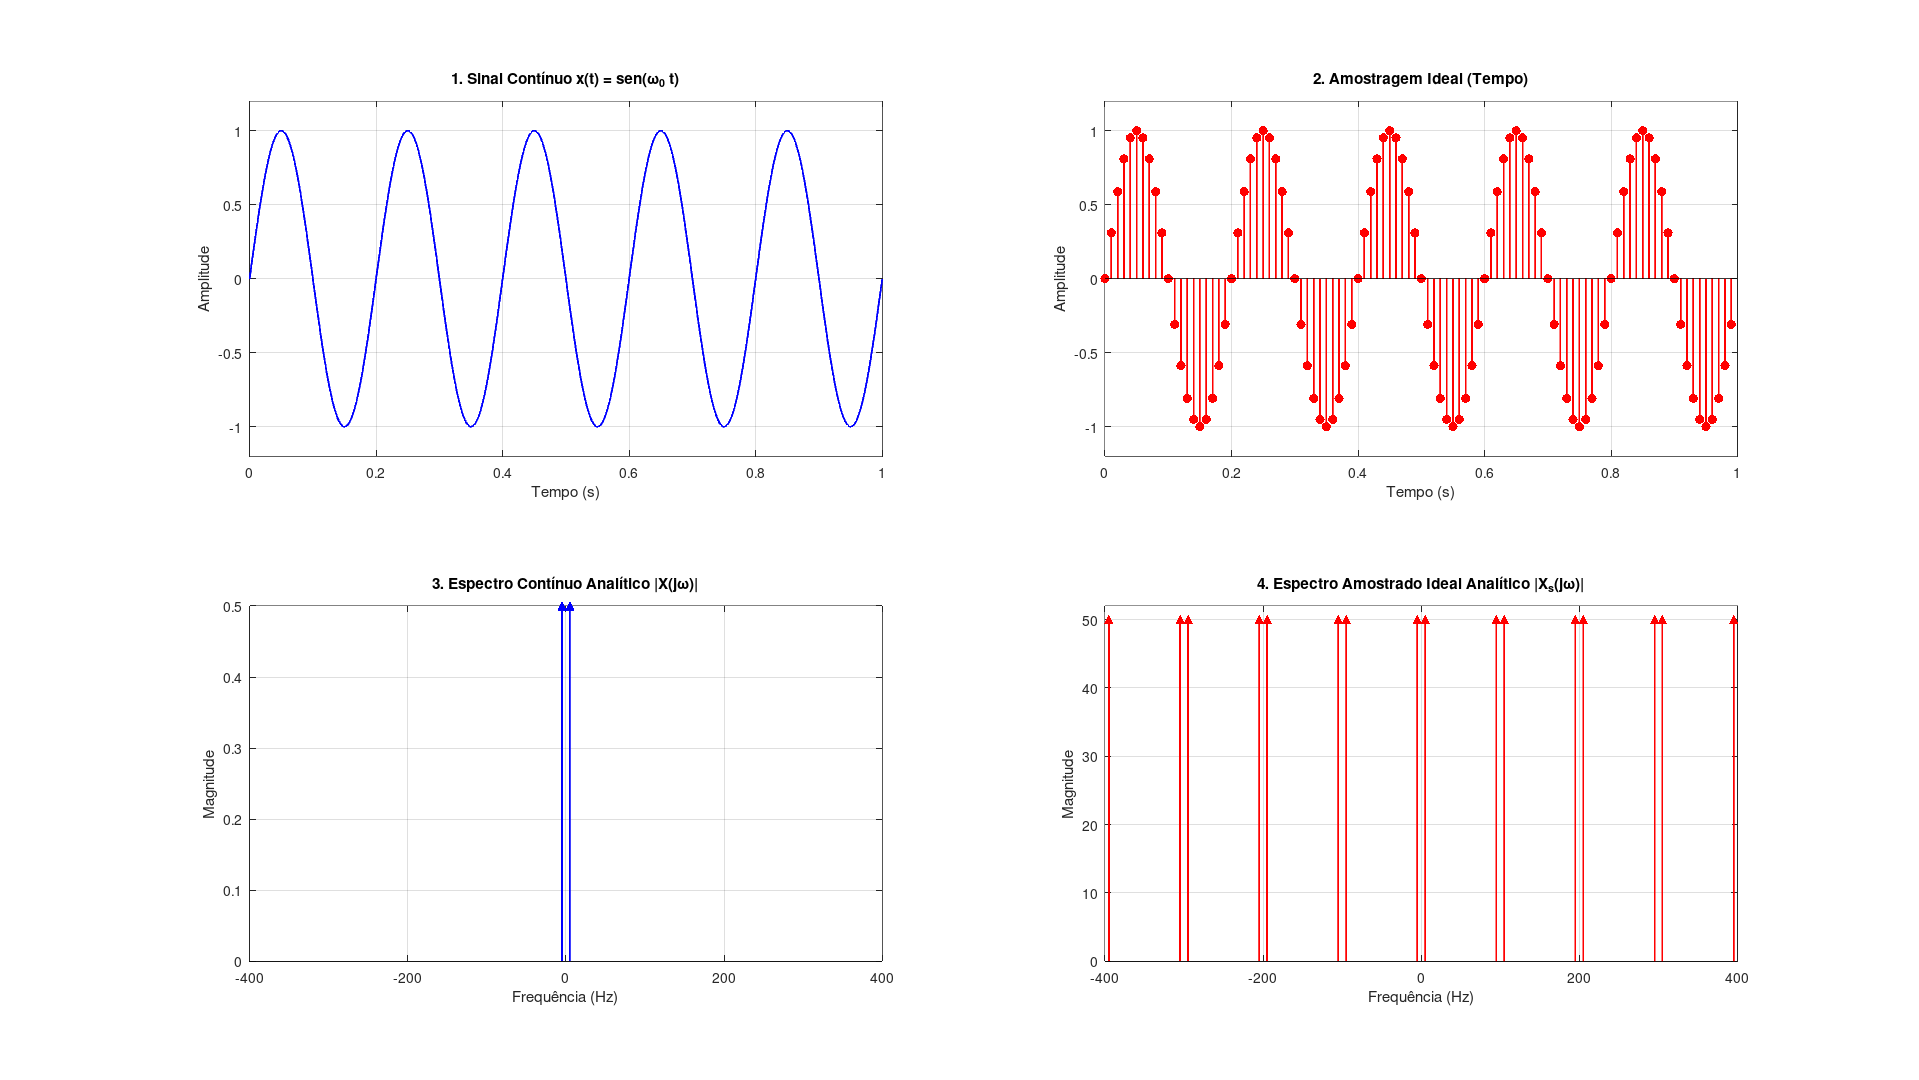
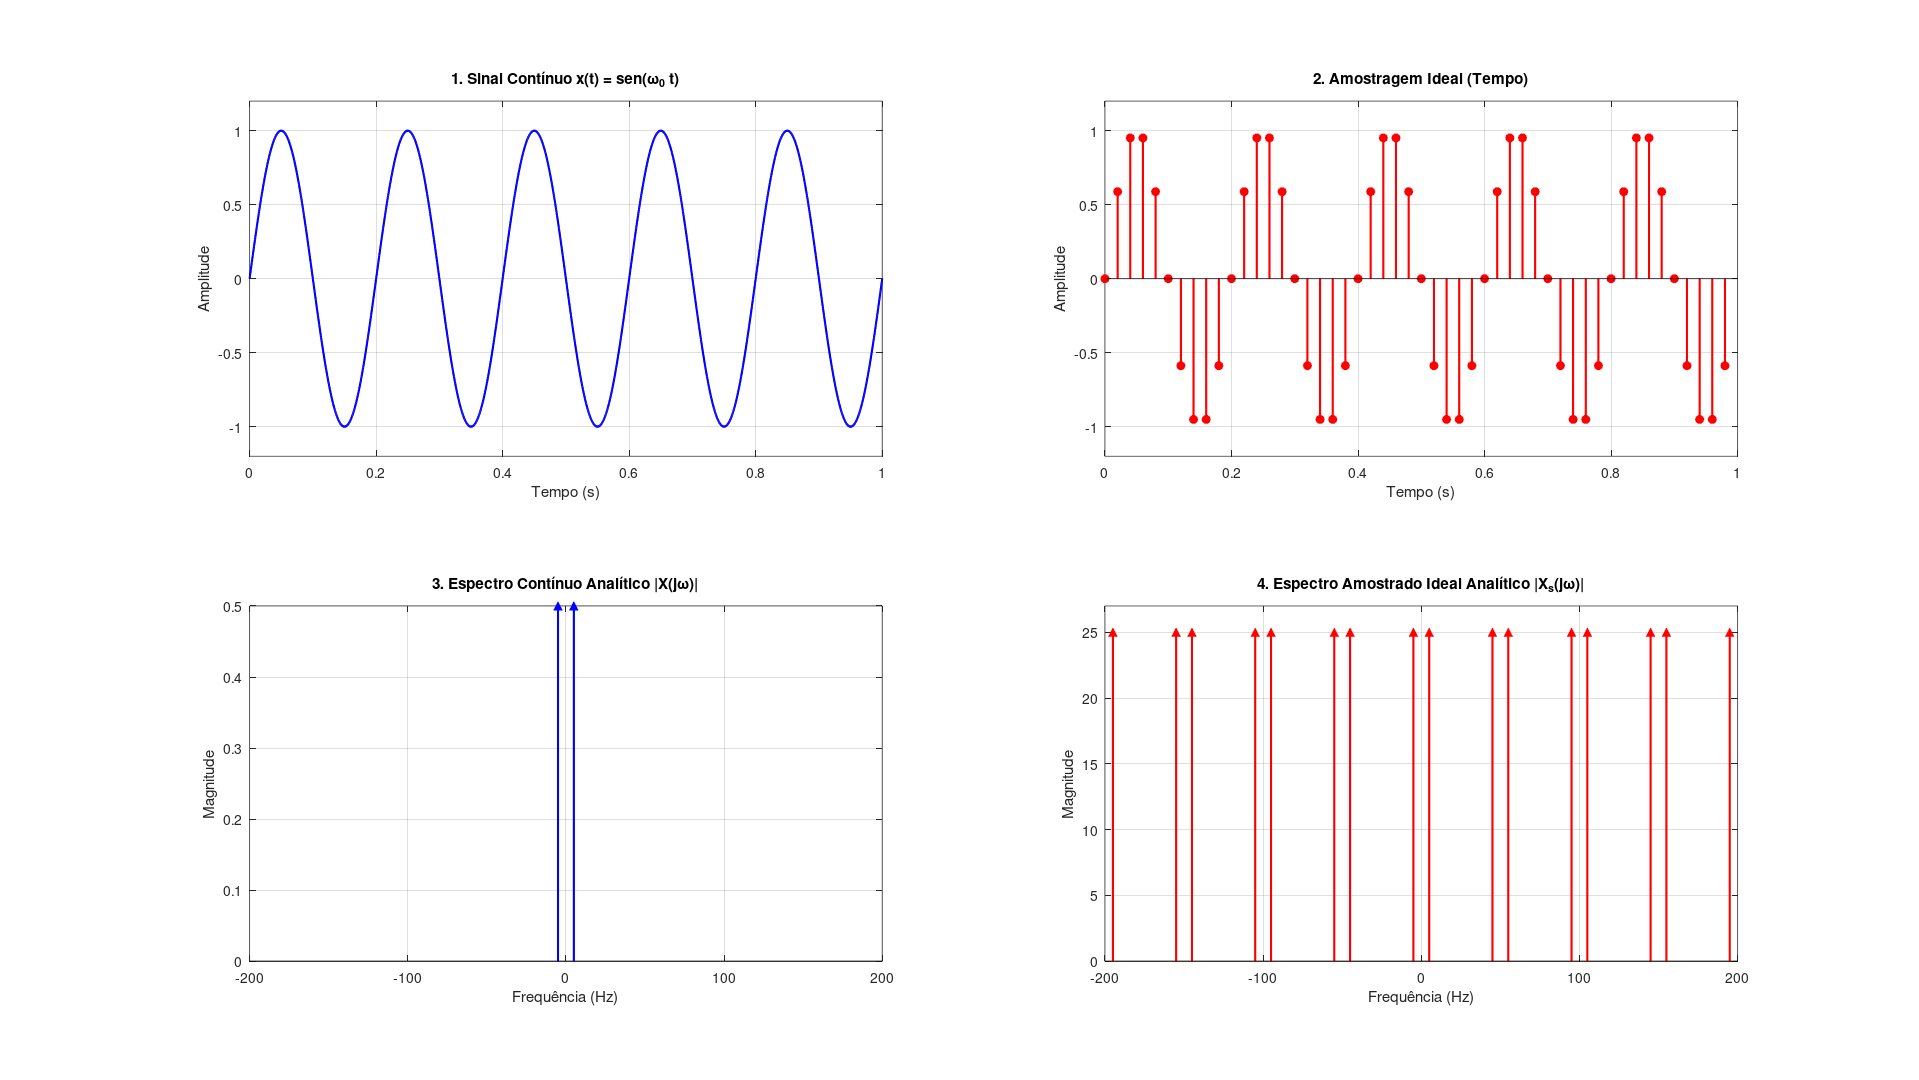
refactor: modularização dos scripts das transformadas

diff --git a/main.m b/main.m
@@ -2,17 +2,16 @@
 % MAIN.M - Análise Analítica de Amostragem (Ideal, Natural e Topo-Plano)
 % =========================================================================
 
-% TODO: Adicionar análise por FFT
-
 clear; clc; close all;
 
 % Adiciona o diretório 'src' e o 'utils' ao path de busca do MATLAB/Octave
-addpath('src', 'utils');
+addpath(genpath('src'));
+addpath('utils');
 
 %% 1. Definição dos Parâmetros Globais
 frequency = 5;                         % Frequência do sinal original (Hz)
 omega = 2*pi*frequency;                % Frequência angular (rad/s)
-samplingFrequency = 100;                % Frequência de amostragem (Hz)
+samplingFrequency = 50;                % Frequência de amostragem (Hz)
 samplingPeriod = 1/samplingFrequency;  % Período de amostragem (s)
 tau = 0.20 * samplingPeriod;            % Largura do pulso (50% do período); Considerar usar percentual menor.
 displayRange = 4 * samplingFrequency;
@@ -57,28 +56,17 @@ grid on; ylim([-1.2 1.2]);
 
 % PLOT 3: Frequência - Analítico (Contínuo)
 subplot(2, 2, 3);
-frequencyContinuous = [-frequency, frequency];
-magnitudeContinuous = [0.5, 0.5];
-stem(frequencyContinuous, magnitudeContinuous, 'b', 'Marker', '^', 'LineWidth', 1.5, 'MarkerFaceColor', 'b');
+continuousFrequencies = [-frequency, frequency];
+continuousAmplitudes = [0.5, 0.5];
+stem(continuousFrequencies, continuousAmplitudes, 'b', 'Marker', '^', 'LineWidth', 1.5, 'MarkerFaceColor', 'b');
 title('3. Espectro Contínuo Analítico |X(j\omega)|');
 xlabel('Frequência (Hz)'); ylabel('Magnitude');
 grid on; xlim([-displayRange displayRange]);
 
 % PLOT 4: Frequência - Analítico (Amostrado Ideal)
 subplot(2, 2, 4);
-kIdealSamples = -kMax:kMax;
-idealFrequencyLocations = [];
-idealMagnitudes = [];
-% Xs(f) = (1/Ts) * Σ_{k=-∞}^{∞} X(f - kfs)
-% Esta expressão representa a transformada de Fourier da amostragem ideal de um sinal.
-% É a soma de infinitas translações da transformada de Fourier original X(jω)
-% espaçadas pela frequência de amostragem ωs, escaladas por 1/Ts.
-for k = kIdealSamples
-    frequencyShift = k * samplingFrequency;
-    idealFrequencyLocations = [idealFrequencyLocations, -frequency + frequencyShift, frequency + frequencyShift];
-    idealMagnitudes = [idealMagnitudes, 0.5 * samplingFrequency, 0.5 * samplingFrequency];
-end
-stem(idealFrequencyLocations, idealMagnitudes, 'r', 'Marker', '^', 'LineWidth', 1.5, 'MarkerFaceColor', 'r');
+[idealAmplitudes, idealFrequencies] = idealTransform(frequency, samplingFrequency, kMax);
+stem(idealFrequencies, abs(idealAmplitudes), 'r', 'Marker', '^', 'LineWidth', 1.5, 'MarkerFaceColor', 'r');
 title('4. Espectro Amostrado Ideal Analítico |X_s(j\omega)|');
 xlabel('Frequência (Hz)'); ylabel('Magnitude');
 grid on; xlim([-displayRange displayRange]); ylim([0 (0.5*samplingFrequency)+2]);
@@ -102,43 +90,20 @@ grid on; ylim([-1.2 1.2]);
 
 % PLOT 3: Frequência - Analítico (Natural)
 subplot(2, 2, 3);
-kNaturalSamples = -kMax:kMax;
-naturalFrequencyLocations = [];
-naturalMagnitudes = [];
-% Amostragem Natural (usando interpolação sinc):
-% X_s(f) = (τ/Ts) * Σ_{k=-∞}^{∞} sinc(kfsτ) * X(f-fs)
-% Esta expressão representa a amostragem natural
-% onde o sinal é amostrado por um trem de pulsos retangulares com
-% duração de τ segundos e período Ts.
-for k = kNaturalSamples
-    frequencyShift = k * samplingFrequency;
-    naturalFrequencyLocations = [naturalFrequencyLocations, -frequency + frequencyShift, frequency + frequencyShift];
-    naturalAmplitudeScale = (tau / samplingPeriod) * sinc(k * samplingFrequency * tau);
-    naturalMagnitudes = [naturalMagnitudes, abs(naturalAmplitudeScale), abs(naturalAmplitudeScale)];
-end
-stem(naturalFrequencyLocations, naturalMagnitudes, 'b', 'Marker', '^', 'LineWidth', 1.5, 'MarkerFaceColor', 'b');
+[naturalAmplitudes, naturalFrequencies] = naturalTransform(frequency, samplingFrequency, tau, kMax);
+stem(naturalFrequencies, abs(naturalAmplitudes), 'b', 'Marker', '^', 'LineWidth', 1.5, 'MarkerFaceColor', 'b');
 title('3. Espectro Analítico: Natural |X_n(j\omega)|');
 xlabel('Frequência (Hz)'); ylabel('Magnitude');
 grid on; xlim([-displayRange displayRange]);
 
 % PLOT 4: Frequência - Analítico (Topo-Plano)
 subplot(2, 2, 4);
-flatTopFrequencyLocations = naturalFrequencyLocations; % Mesmas posições
-flatTopMagnitudes = [];
-% Amostragem Topo-Plano (flat-top sampling) - amostragem com retângulos:
-% Xs(jω) = (τ/Ts) * sinc(fτ) * Σ_{k=-∞}^{∞} X(f-kfs)
-% Neste caso, a função sinc é aplicada fora da soma,
-% caracterizando a amostragem por flat-top (efeito de abertura).
-for i = 1:length(flatTopFrequencyLocations)
-    flatTopFrequencyValues = flatTopFrequencyLocations(i);
-    flatTopMagnitudeScale = (tau / samplingPeriod) * sinc(flatTopFrequencyValues * tau);
-    flatTopMagnitudes = [flatTopMagnitudes, abs(flatTopMagnitudeScale)];
-end
-stem(flatTopFrequencyLocations, flatTopMagnitudes, 'r', 'Marker', '^', 'LineWidth', 1.5, 'MarkerFaceColor', 'r');
+[flatTopAmplitudes, flatTopFrequencies] = flatTopTransform(frequency, samplingFrequency, tau, kMax);
+stem(flatTopFrequencies, abs(flatTopAmplitudes), 'r', 'Marker', '^', 'LineWidth', 1.5, 'MarkerFaceColor', 'r');
 hold on;
 % Envelope do sinc
 sincEnvelopeFrequency = -displayRange:samplingPeriod:displayRange;
-flatTopEnvelope = abs((tau / samplingPeriod) * sinc(sincEnvelopeFrequency * tau));
+flatTopEnvelope = abs((tau / samplingPeriod) * sinc(sincEnvelopeFrequency * tau) * 0.5j);
 plot(sincEnvelopeFrequency, flatTopEnvelope, 'k--', 'LineWidth', 1);
 hold off;
 title('4. Espectro Analítico: Topo-Plano |X_{ft}(j\omega)|');
@@ -174,9 +139,9 @@ print(2, fullfile(output_path, 'sinais_amostragem2.png'), '-dpng', '-r100');
 %% RECONSTRUÇÃO IDEAL
 
 [idealReconstructionSignal, filteredIdealMagnitudes] = ...
-    IdealReconstruction( ...
-        idealFrequencyLocations, ...
-        idealMagnitudes, ...
+    idealReconstruction( ...
+        idealFrequencies, ...
+        idealAmplitudes, ...
         samplingFrequency, ...
         continuousTime);
 
@@ -203,8 +168,8 @@ ylim([-1.2 1.2]);
 % Espectro filtrado
 subplot(2, 1, 2);
 
-stem(idealFrequencyLocations, ...
-    filteredIdealMagnitudes, ...
+stem(idealFrequencies, ...
+    abs(filteredIdealMagnitudes), ...
     'r', ...
     'Marker', '^', ...
     'LineWidth', 1.5, ...
@@ -221,9 +186,9 @@ ylim([0 0.6]);
 %% RECONSTRUÇÃO NATURAL
 
 [naturalReconstructionSignal, filteredNaturalMagnitudes] = ...
-    NaturalReconstruction( ...
-        naturalFrequencyLocations, ...
-        naturalMagnitudes, ...
+    naturalReconstruction( ...
+        naturalFrequencies, ...
+        naturalAmplitudes, ...
         samplingFrequency, ...
         tau, ...
         continuousTime);
@@ -251,7 +216,7 @@ ylim([-1.2 1.2]);
 % Espectro filtrado
 subplot(2, 1, 2);
 
-stem(naturalFrequencyLocations, ...
+stem(naturalFrequencies, ...
     filteredNaturalMagnitudes, ...
     'b', ...
     'Marker', '^', ...
@@ -268,9 +233,9 @@ xlim([-displayRange displayRange]);
 %% RECONSTRUÇÃO TOPO-PLANO
 
 [flatTopReconstructionSignal, filteredFlatTopMagnitudes] = ...
-    FlatTopReconstruction( ...
-        flatTopFrequencyLocations, ...
-        flatTopMagnitudes, ...
+    flatTopReconstruction( ...
+        flatTopFrequencies, ...
+        flatTopAmplitudes, ...
         samplingFrequency, ...
         tau, ...
         continuousTime);
@@ -298,7 +263,7 @@ ylim([-1.2 1.2]);
 % Espectro filtrado
 subplot(2, 1, 2);
 
-stem(flatTopFrequencyLocations, ...
+stem(flatTopFrequencies, ...
     filteredFlatTopMagnitudes, ...
     'r', ...
     'Marker', '^', ...

diff --git a/src/transform/naturalTransform.m b/src/transform/naturalTransform.m
@@ -1,0 +1,25 @@
+function [amplitudes, frequencies] = ...
+    naturalTransform( ...
+        frequency, ...
+        samplingFrequency, ...
+        tau, ...
+        kMax
+    )
+
+    samplingPeriod = 1/samplingFrequency;
+
+    kSamples = -kMax:kMax;
+    frequencies = [];
+    amplitudes = [];
+    % Amostragem Natural (usando interpolação sinc):
+    % X_s(f) = (τ/Ts) * Σ_{k=-∞}^{∞} sinc(kfsτ) * X(f-fs)
+    % Esta expressão representa a amostragem natural
+    % onde o sinal é amostrado por um trem de pulsos retangulares com
+    % duração de τ segundos e período Ts.
+    for k = kSamples
+        frequencyShift = k * samplingFrequency;
+        frequencies = [frequencies, -frequency + frequencyShift, frequency + frequencyShift];
+        amplitudeScale = (tau / samplingPeriod) * sinc(k * samplingFrequency * tau);
+        amplitudes = [amplitudes, 0.5j * amplitudeScale, 0.5j * -amplitudeScale];
+    end
+end

diff --git a/src/transform/flatTopTransform.m b/src/transform/flatTopTransform.m
@@ -1,0 +1,26 @@
+function [amplitudes, frequencies] = ...
+    flatTopTransform( ...
+        frequency, ...
+        samplingFrequency, ...
+        tau, ...
+        kMax
+    )
+
+    samplingPeriod = 1/samplingFrequency;
+
+    kSamples = -kMax:kMax;
+    frequencies = [];
+    amplitudes = [];
+    % Amostragem Natural (usando interpolação sinc):
+    % X_s(f) = (τ/Ts) * Σ_{k=-∞}^{∞} sinc(kfsτ) * X(f-fs)
+    % Esta expressão representa a amostragem natural
+    % onde o sinal é amostrado por um trem de pulsos retangulares com
+    % duração de τ segundos e período Ts.
+    for k = kSamples
+        frequencyShift = k * samplingFrequency;
+        frequencies = [frequencies, -frequency + frequencyShift, frequency + frequencyShift];
+        amplitudes = [amplitudes, 0.5j, -0.5j];
+    end
+    amplitudeScale = (tau / samplingPeriod) * sinc(frequencies * tau);
+    amplitudes = amplitudeScale .* amplitudes
+end

diff --git a/src/transform/idealTransform.m b/src/transform/idealTransform.m
@@ -1,0 +1,21 @@
+function [amplitudes, frequencies] = ...
+    idealTransform( ...
+        frequency, ...
+        samplingFrequency, ...
+        kMax
+    )
+
+    kSamples = -kMax:kMax;
+    frequencies = [];
+    amplitudes = [];
+
+    % Xs(f) = (1/Ts) * Σ_{k=-∞}^{∞} X(f - kfs)
+    % Esta expressão representa a transformada de Fourier da amostragem ideal de um sinal.
+    % É a soma de infinitas translações da transformada de Fourier original X(jω)
+    % espaçadas pela frequência de amostragem ωs, escaladas por 1/Ts.
+    for k = kSamples
+        frequencyShift = k * samplingFrequency;
+        frequencies = [frequencies, -frequency + frequencyShift, frequency + frequencyShift];
+        amplitudes = [amplitudes, 0.5j * samplingFrequency, 0.5j * -samplingFrequency];
+    end
+end

diff --git a/src/reconstruction/flatTopReconstruction.m b/src/reconstruction/flatTopReconstruction.m
@@ -1,15 +1,16 @@
 function [flatTopSignal, filteredFlatTopMagnitudes] = ...
-    FlatTopReconstruction( ...
+    flatTopReconstruction( ...
         flatTopFrequencyLocations, ...
         flatTopMagnitudes, ...
         samplingFrequency, ...
         tau, ...
-        time)
+        time
+    )
 
-    Ts = 1 / samplingFrequency;
+    samplingPeriod = 1 / samplingFrequency;
 
     % Filtro ideal
-    pulse = Ts * ...
+    pulse = samplingPeriod * ...
         (abs(flatTopFrequencyLocations) <= samplingFrequency / 2);
 
     % Espectro após o filtro
@@ -27,5 +28,4 @@ function [flatTopSignal, filteredFlatTopMagnitudes] = ...
     end
 
     flatTopSignal = real(flatTopSignal);
-
 end

diff --git a/src/reconstruction/naturalReconstruction.m b/src/reconstruction/naturalReconstruction.m
@@ -1,4 +1,4 @@
-function [naturalSignal, filteredNaturalMagnitudes] = NaturalReconstruction( ...
+function [naturalSignal, filteredNaturalMagnitudes] = naturalReconstruction( ...
     naturalFrequencyLocations, ...
     naturalMagnitudes, ...
     samplingFrequency, ...

diff --git a/src/reconstruction/idealReconstruction.m b/src/reconstruction/idealReconstruction.m
@@ -1,4 +1,4 @@
-function [idealSignal, filteredIdealMagnitudes] = IdealReconstruction( ...
+function [idealSignal, filteredIdealMagnitudes] = idealReconstruction( ...
     idealFrequencyLocations, ...
     idealMagnitudes, ...
     samplingFrequency, ...
